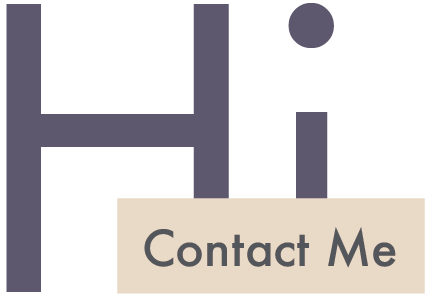
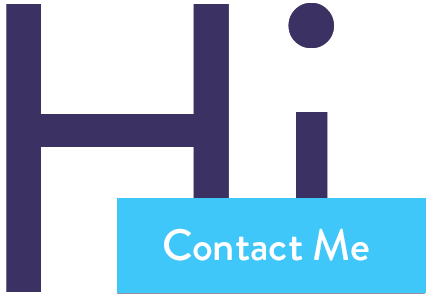
Update

diff --git a/index.html b/index.html
@@ -21,7 +21,7 @@
             <a href="#" id="navi2" class="navi">About Me
                 <div class="underline"></div>
             </a>
-            <a href="#" id="navi3" class="navi">Extra
+            <a href="#" id="navi3" class="navi">Blog
                 <div class="underline"></div>
             </a>
             <a href="#" id="navi4" class="navi">Contact Me
@@ -38,7 +38,7 @@
     <div id="menu-bar">
         <h2 id="menu-bar1">Work</h2>
         <h2 id="menu-bar2">About Me</h2>
-        <h2 id="menu-bar3">Extra</h2>
+        <h2 id="menu-bar3">Blog</h2>
         <h2 id="menu-bar4">Contact Me</h2>
       
             <div id="dribbble1"></div>
@@ -66,11 +66,11 @@
        
         <div id="wrap1-head">
             <h1>What I do</h1>
-            <p><span>Games</span>
+            <p><span>Illustrations</span>
                 <span>Websites</span>
                 <span>Applications</span>
                 <span>Animations</span>
-                <span>Graphic Art</span></p>
+                <span>3D Models</span></p>
         </div>
         <div class="wrap1-module">
             <h2>- SOME IMPORTANT WORK -</h2>
@@ -134,16 +134,16 @@
                 <a id="glassia" class="w-block">
                     <div id="w5" class="W-block-img"></div>
                     <div class="w-block-text">
-                        <h3>Product Design</h3>
-                        <span>Photoshop</span>
+                        <h3>Interior Design</h3>
+                        <span>Maya</span>
                    
                     </div>
                 </a>
                 <a id="memo" class="w-block">
                     <div id="w6" class="W-block-img"></div>
                     <div class="w-block-text">
-                        <h3>Logo Design</h3>
-                        <span>Illustrator</span>
+                        <h3>Game Environment</h3>
+                        <span>Maya</span>
                     </div>
                 </a>
             </div>
@@ -480,8 +480,8 @@
                 <div class="d-text">
                     <h3>30 Days in a life of Graphics Designer</h3>
                     <div></div>
-                    <p>I would like to share how did i spent my 30 days as a Graphics Designer. </p>
-                    <h4>Blog</h4>
+                    <p>Lets dive into day to day life of Graphics Designer. </p>
+                    <h4>Read more -></h4>
                 </div>
             </div>
         </div>

diff --git a/style/style.css b/style/style.css
@@ -717,7 +717,7 @@ h1 {
     font-style: normal;
     font-weight: 400;
     font-size: 4.0em;
-    color: #221814;
+    color: #3b3163;
     text-align: center;
     letter-spacing: 4px;
 }
@@ -786,6 +786,8 @@ h1 {
 .W-block-img {
     width: 100%;
     height: 220px;
+    border: 7px solid #ffffff;
+    box-shadow: gray 0.2px 0.2px 0.2px 0.2px;
 }
 
 #w1 {
